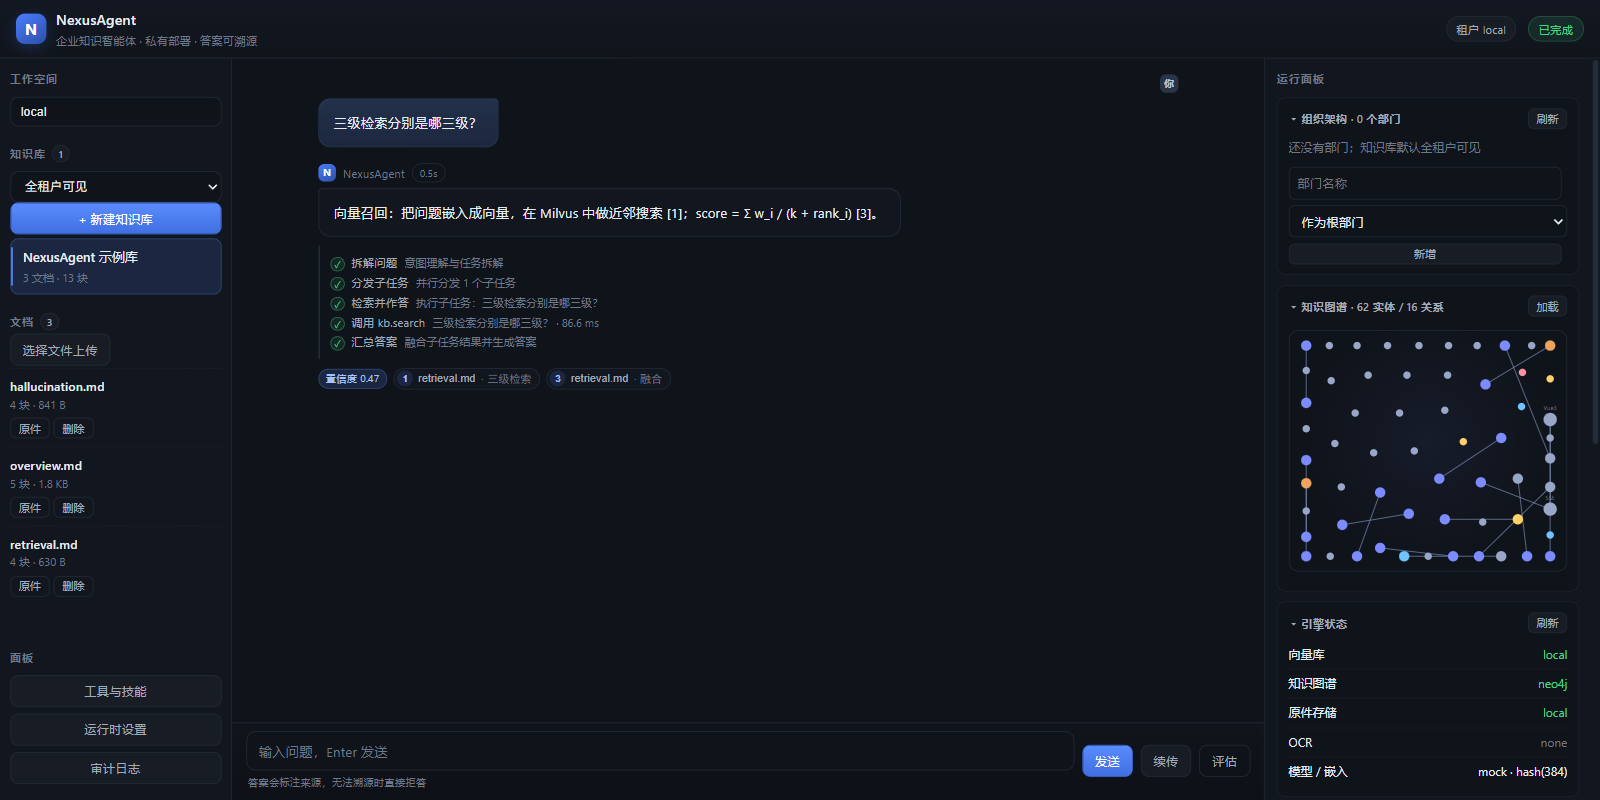
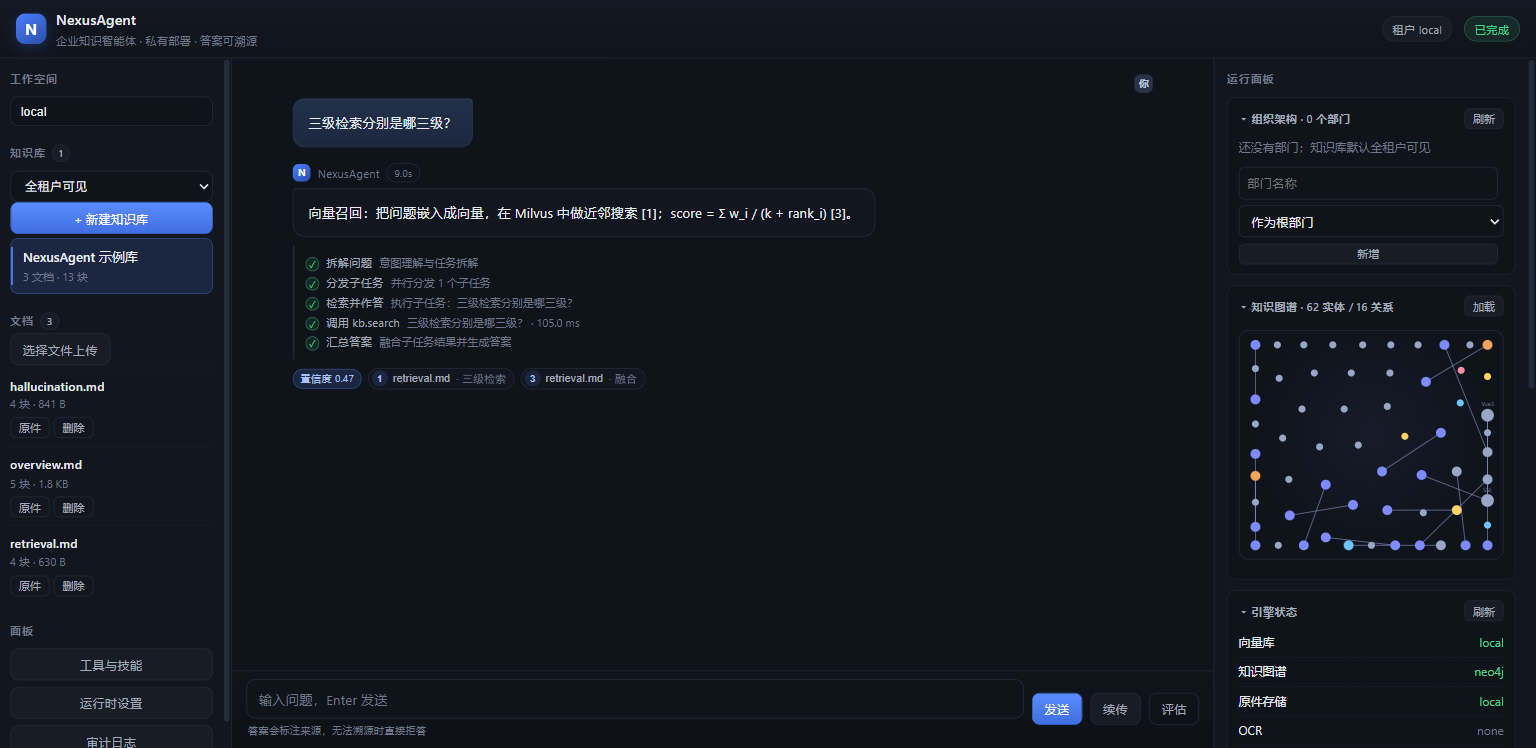
fix: pin the grid row to the viewport so the composer cannot fall out
.main is a grid with a single implicit row, and an implicit row is auto: it
sizes to the tallest column (the document list, the run panel) instead of to
the container. #app then clipped that overflow, which read as "the page is cut
and the input bar is gone". grid-template-rows: minmax(0, 1fr) makes the row
follow the container; html/body also stop scrolling.

diff --git a/apps/web/src/style.css b/apps/web/src/style.css
@@ -20,7 +20,7 @@
 
 * { box-sizing: border-box; }
 
-html, body { height: 100%; }
+html, body { height: 100%; overflow: hidden; }
 
 body {
   margin: 0;
@@ -105,6 +105,8 @@ body {
   display: grid;
   /* The right rail grows on wide screens instead of leaving a dead strip. */
   grid-template-columns: 232px minmax(0, 1fr) clamp(320px, 21vw, 410px);
+  /* 行高必须被容器钉住：默认的 auto 行会跟着最高那一列长，把输入条顶出视口 */
+  grid-template-rows: minmax(0, 1fr);
   min-height: 0;
 }
 
